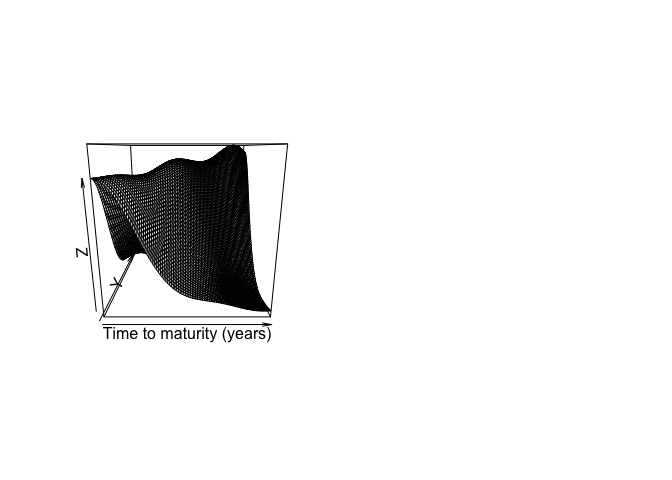
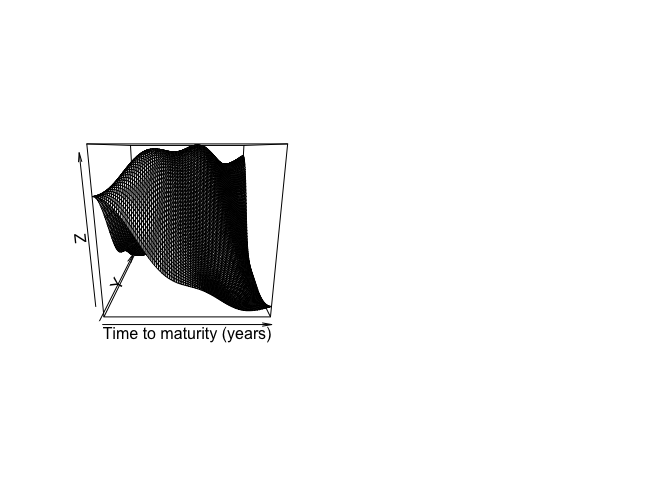
RMD Changes

Changed region(s): [[0.125, 0.2812, 0.4062, 0.6562], [0.0938, 0.5, 0.125, 0.5312], [0.0938, 0.3125, 0.125, 0.3438]]

diff --git a/README.md b/README.md
@@ -112,7 +112,7 @@ SIM<-Simulator(100,100, q= q, k=k, f0=numeric(201))
 Now use the Truncated estimator to estimate the volatility
 
 ``` r
-Est<-Truncated.Covariation.estimator(x=SIM$Cont.Prices)
+Est<-Truncated.Covariation.estimator(x=SIM$Prices)
 ```
 
 <img src="man/figures/README-unnamed-chunk-4-1.png" width="100%" />
@@ -127,5 +127,5 @@ The relative MSE in Hilbert-Schmidt norm is
 
 ``` r
 L2.HS.norm(Est$IV-q[1:99,1:99]/100)/L2.HS.norm(q[1:99,1:99]/100)
-#> [1] 0.1462048
+#> [1] 0.1229131
 ```
